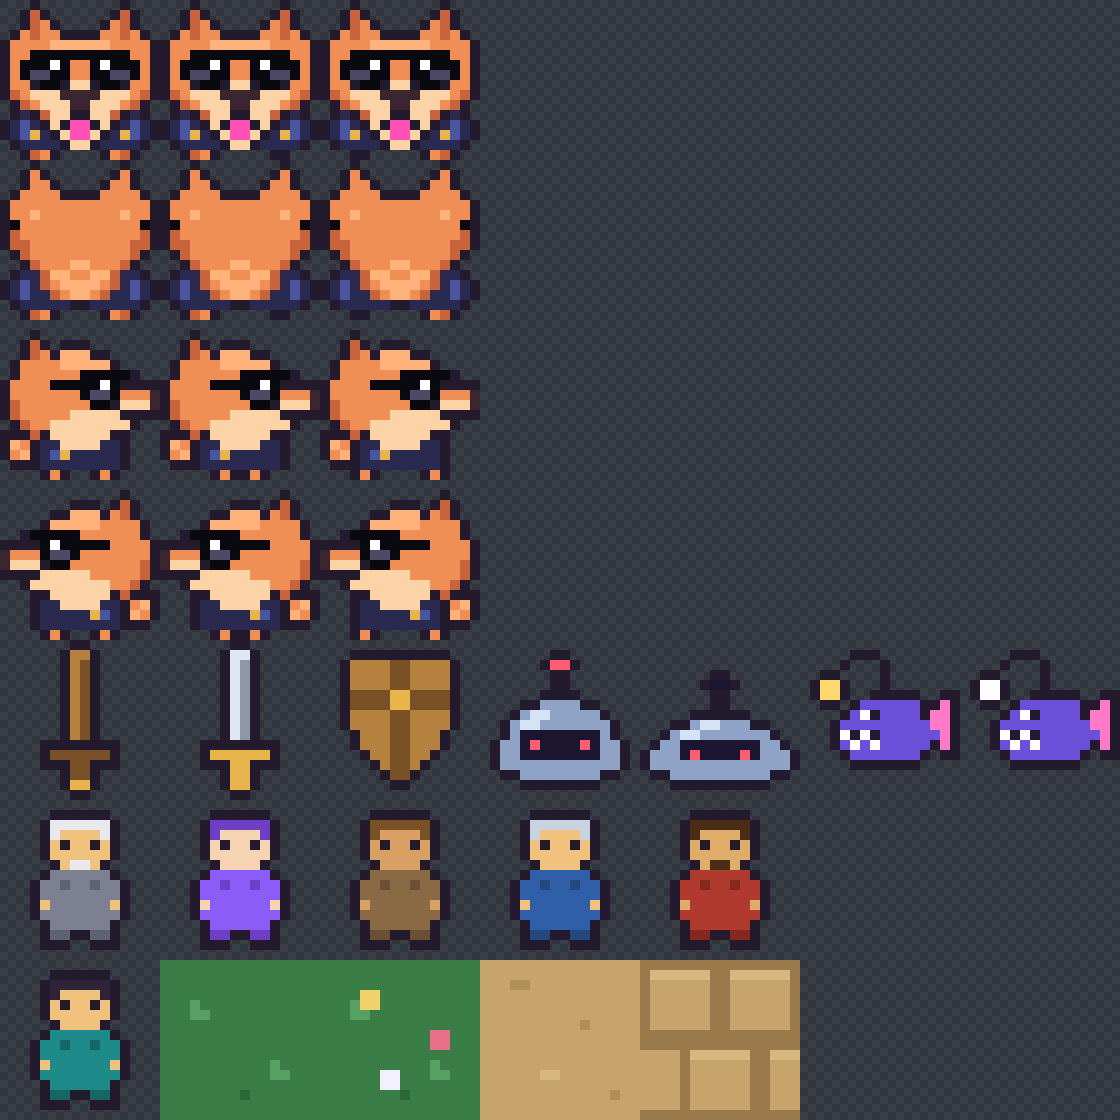
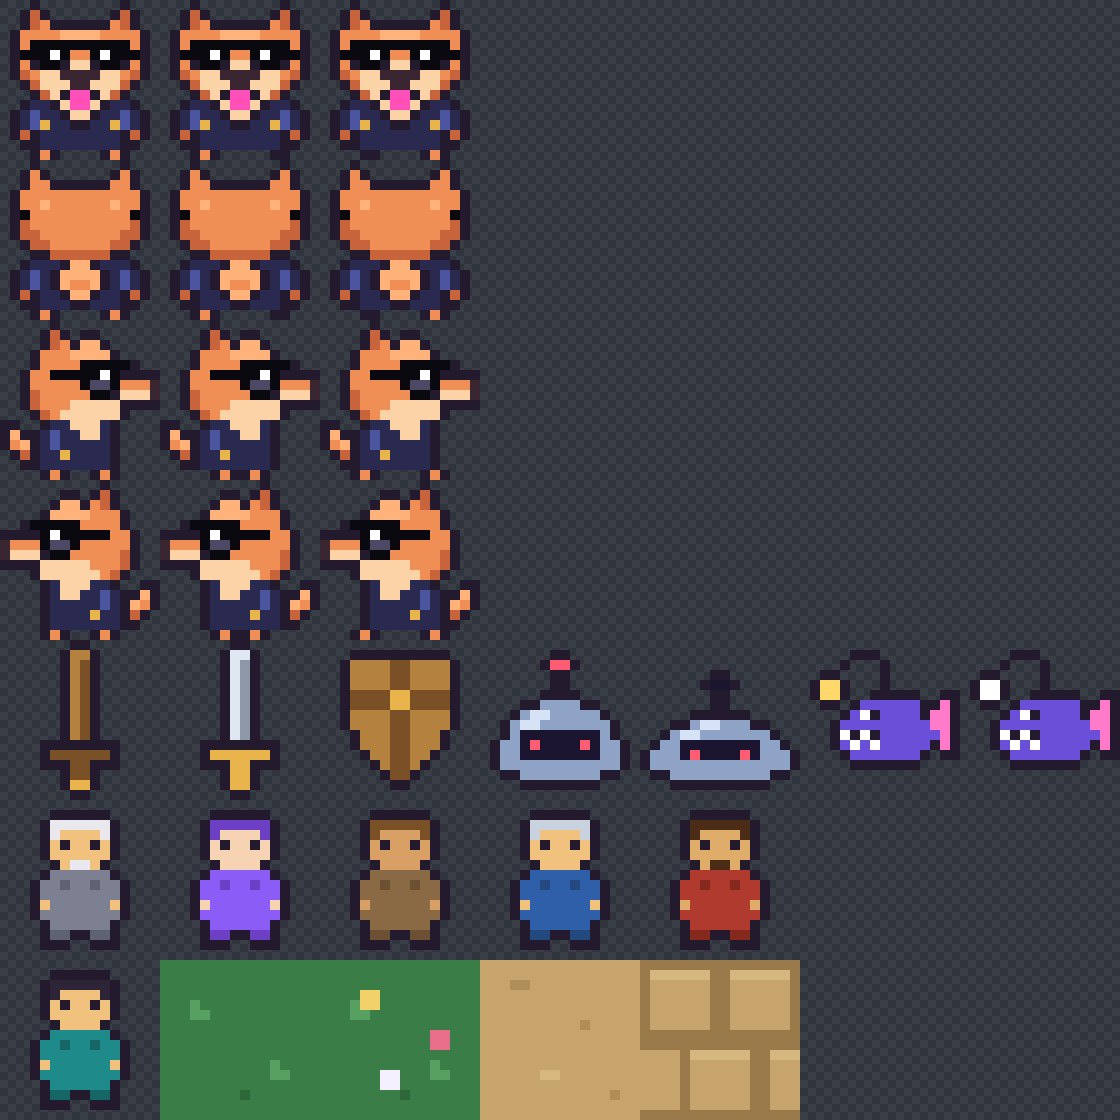
feat(art): shrink the pomeranian's head so the jacketed body shows
Head drops from 11 rows to 10 and from 16 to 14 wide, freeing a fuller torso
with arms and paws. Front feet move in to sit under the narrower body.

Changed region(s): [[0.0, 0.0, 0.4375, 0.5625]]

diff --git a/app/src/game/sheets.ts b/app/src/game/sheets.ts
@@ -1,6 +1,6 @@
 // Generated by art/sprites.mjs; don't edit. Each URL carries a hash of the sheet's contents.
 export const SHEETS = {
-  dog: '/assets/dog.png?v=594ca6e998',
+  dog: '/assets/dog.png?v=0be57c5f01',
   items: '/assets/items.png?v=8b19d504e1',
   npcs: '/assets/npcs.png?v=b74c465442',
   tiles: '/assets/tiles.png?v=59af1e10f8',
